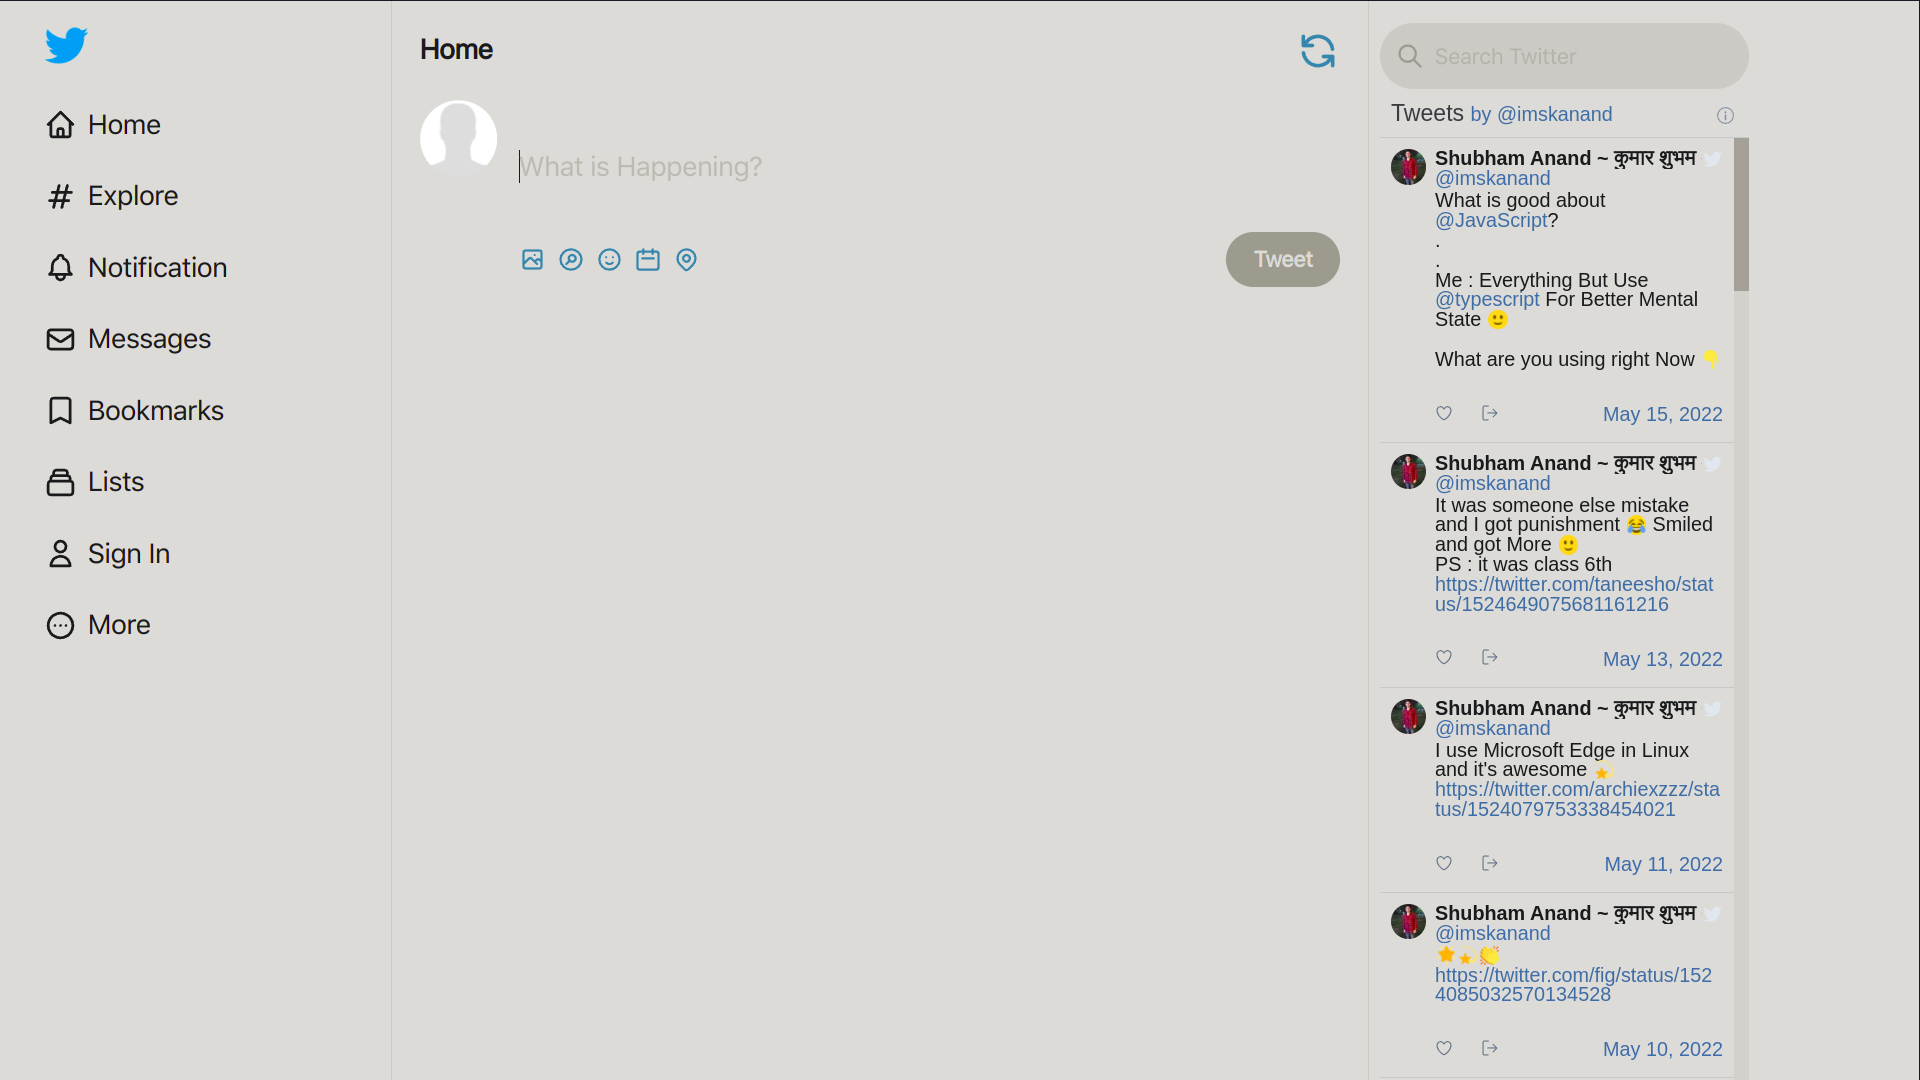
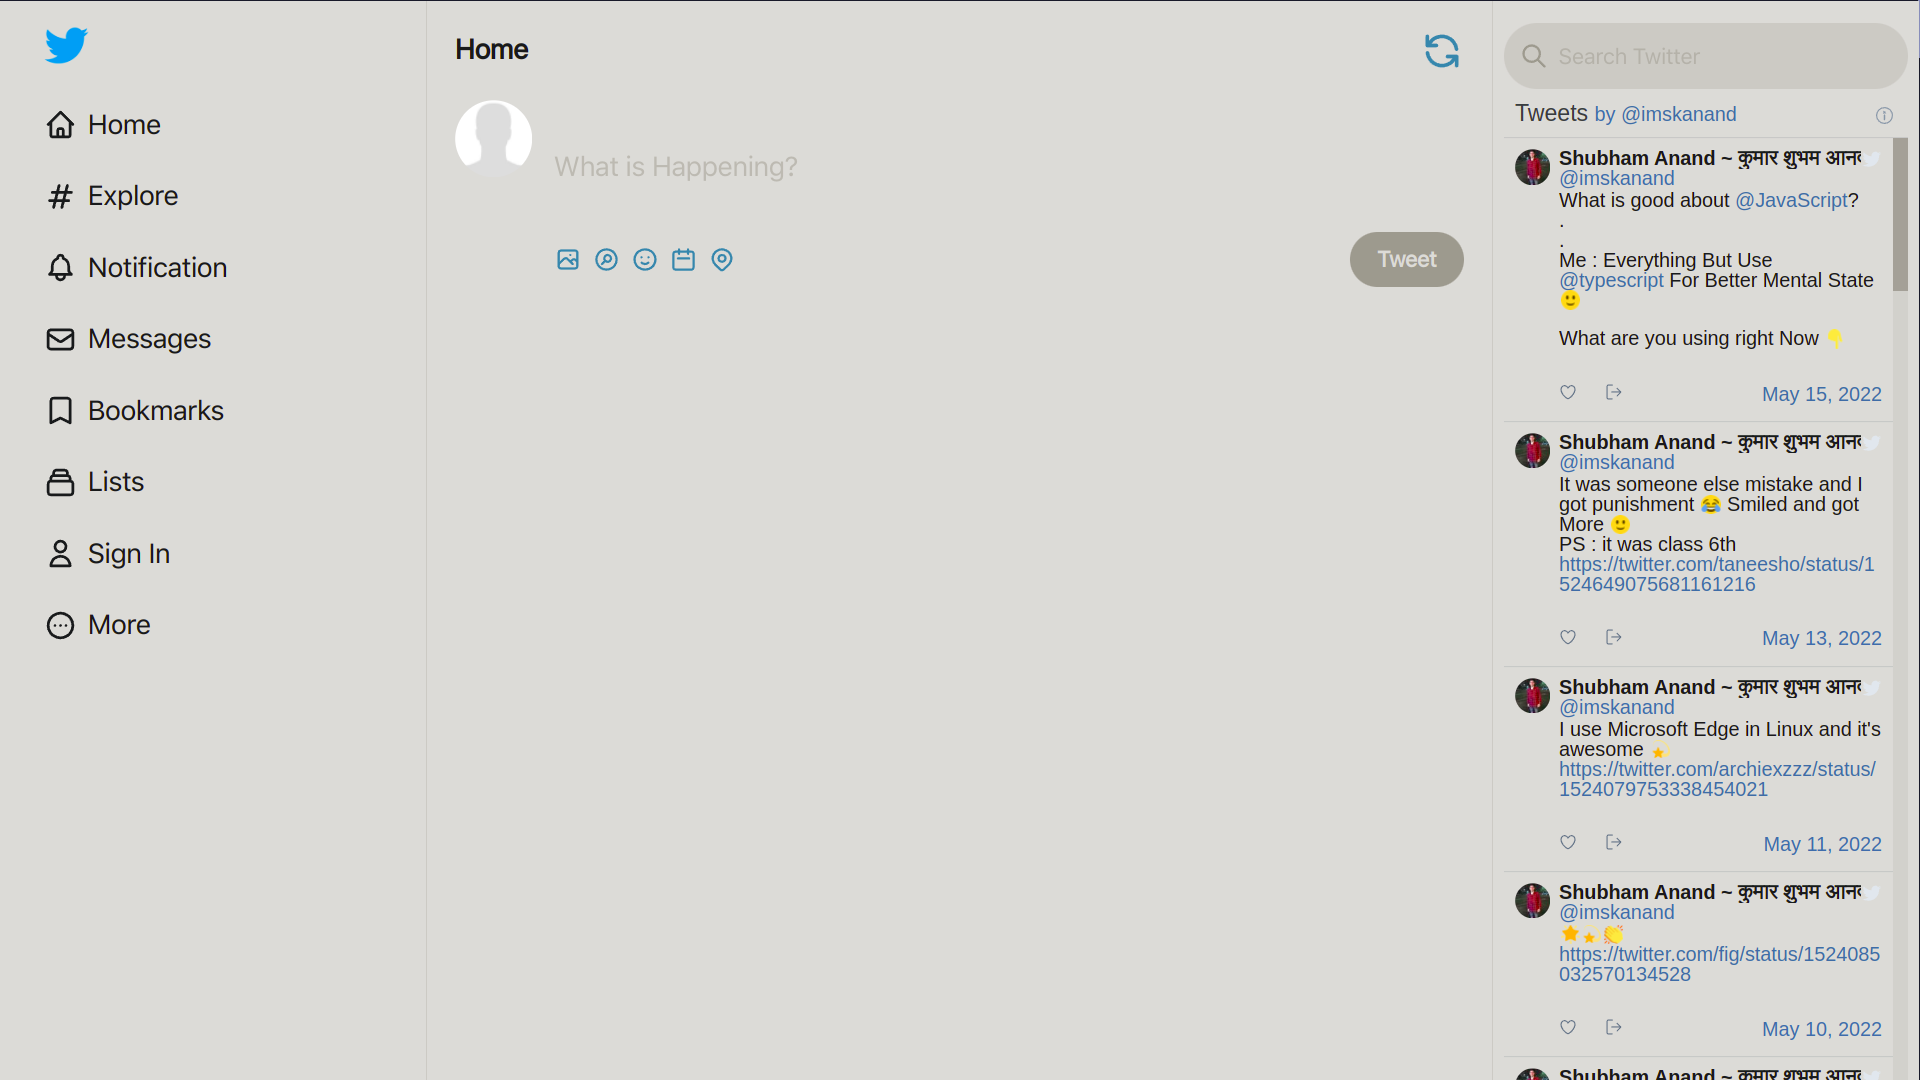
FrontEnd complete and Commenting

diff --git a/components/TweetBox.tsx b/components/TweetBox.tsx
@@ -10,32 +10,36 @@ import { useState } from 'react'
 function TweetBox() {
   const [input, setInput] = useState<string>('')
   return (
-    <div className="flex p-5 space-x-2">
+    <div className="flex space-x-2 p-5">
+      {/* Image of the user */}
       <img
         src="https://links.papareact.com/gll"
         alt=""
-        className="object-cover rounded-full mt4 h-14 w-14"
+        className="mt4 h-14 w-14 rounded-full object-cover"
       />
-      <div className="flex items-center flex-1 pl-2">
-        <form className="flex flex-col flex-1">
+      {/* Input field of the tweet box */}
+      <div className="flex flex-1 items-center pl-2">
+        <form className="flex flex-1 flex-col">
           <input
             value={input}
             onChange={(e) => setInput(e.target.value)}
             type="text"
             placeholder="What is Happening?"
-            className="w-full h-24 text-xl outline-none placeholder:text-xl"
+            className="h-24 w-full text-xl outline-none placeholder:text-xl"
           />
+          {/* Icons under the tweet box */}
           <div className="flex items-center">
             <div className="flex flex-1 space-x-2 text-twitter">
-              <PhotographIcon className="w-5 h-5 transition-transform duration-200 ease-out cursor-pointer hover:scale-150" />
-              <SearchCircleIcon className="w-5 h-5 transition-transform duration-200 ease-out cursor-pointer hover:scale-150" />
-              <EmojiHappyIcon className="w-5 h-5 transition-transform duration-200 ease-out cursor-pointer hover:scale-150" />
-              <CalendarIcon className="w-5 h-5 transition-transform duration-200 ease-out cursor-pointer hover:scale-150" />
-              <LocationMarkerIcon className="w-5 h-5 transition-transform duration-200 ease-out cursor-pointer hover:scale-150" />
+              <PhotographIcon className="h-5 w-5 cursor-pointer transition-transform duration-200 ease-out hover:scale-150" />
+              <SearchCircleIcon className="h-5 w-5 cursor-pointer transition-transform duration-200 ease-out hover:scale-150" />
+              <EmojiHappyIcon className="h-5 w-5 cursor-pointer transition-transform duration-200 ease-out hover:scale-150" />
+              <CalendarIcon className="h-5 w-5 cursor-pointer transition-transform duration-200 ease-out hover:scale-150" />
+              <LocationMarkerIcon className="h-5 w-5 cursor-pointer transition-transform duration-200 ease-out hover:scale-150" />
             </div>
+            {/* Tweet Box */}
             <button
               disabled={!input}
-              className="px-5 py-2 font-bold text-white rounded-full bg-twitter disabled:bg-gray-400"
+              className="rounded-full bg-twitter px-5 py-2 font-bold text-white disabled:bg-gray-400"
             >
               Tweet
             </button>

diff --git a/components/Feed.tsx b/components/Feed.tsx
@@ -6,7 +6,7 @@ function Feed() {
     <div className="col-span-7 border-x lg:col-span-5">
       <div className="flex items-center justify-between">
         <h1 className="p-5 pb-0 text-xl font-bold">Home</h1>
-        <RefreshIcon className="w-8 h-8 mt-5 mr-5 transition-all duration-500 ease-out cursor-pointer text-twitter hover:rotate-180 active:scale-125" />
+        <RefreshIcon className="mt-5 mr-5 h-8 w-8 cursor-pointer text-twitter transition-all duration-500 ease-out hover:rotate-180 active:scale-125" />
       </div>
       <TweetBox />
     </div>

diff --git a/pages/index.tsx b/pages/index.tsx
@@ -7,7 +7,7 @@ import Widgets from '../components/Widgets'
 
 const Home: NextPage = () => {
   return (
-    <div className="max-h-screen overflow-hidden max-auto lg:max-w-7xl">
+    <div className="max-h-screen overflow-hidden max-auto lg:max-w-9xl">
       <Head>
         <title>Twitter 2.0</title>
         <link rel="icon" href="/favicon.ico" />

diff --git a/components/Widgets.tsx b/components/Widgets.tsx
@@ -12,6 +12,7 @@ function Widgets() {
           className="flex-1 bg-transparent outline-none"
         />
       </div>
+      {/* This is for the twitter profile */}
       <TwitterTimelineEmbed
         sourceType="profile"
         screenName="imskanand"
